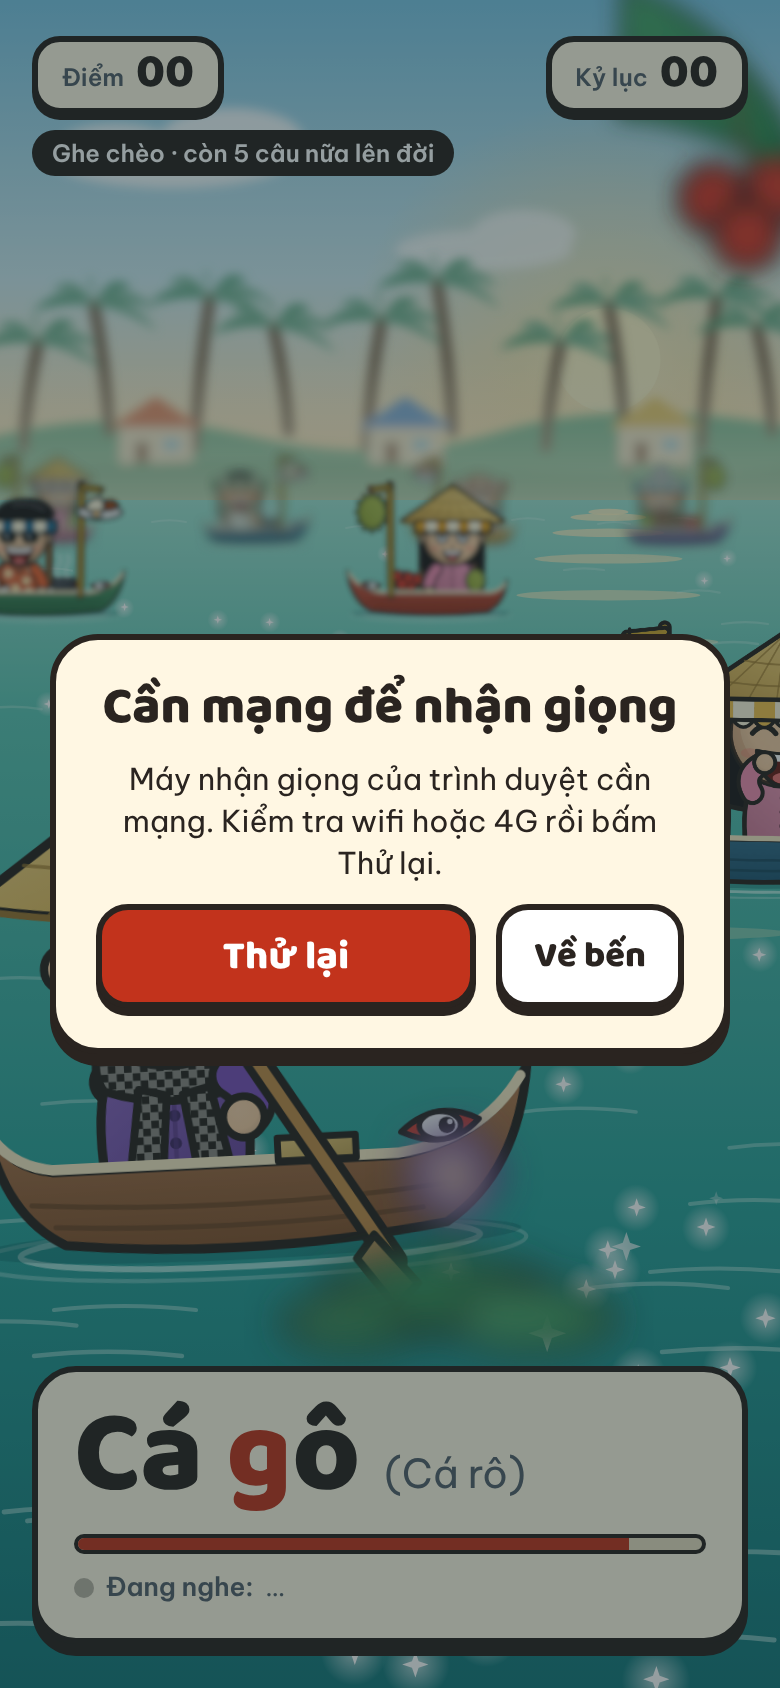
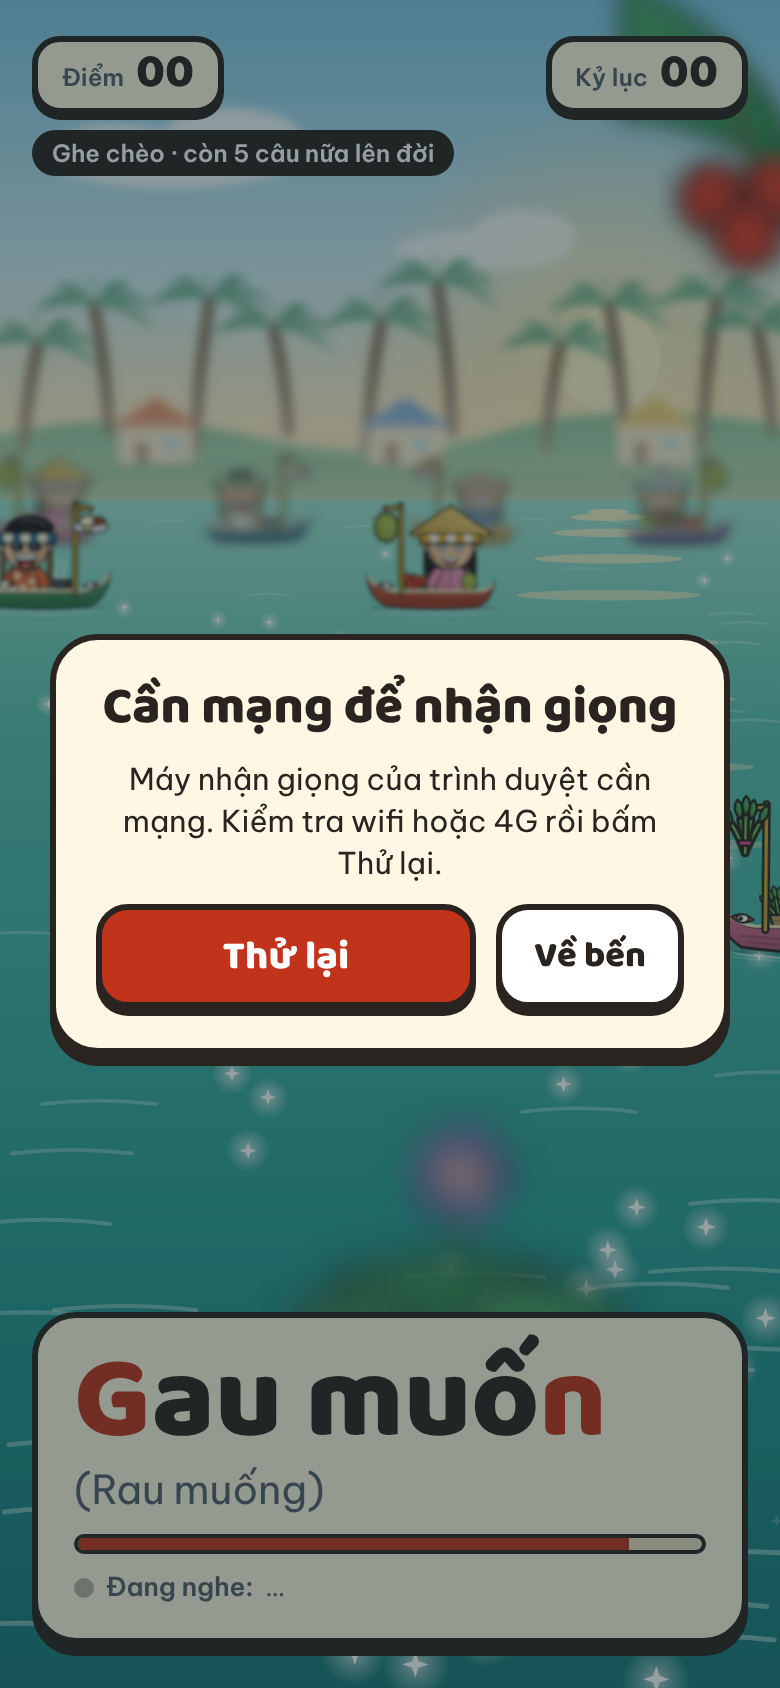
Nới chấm cho máy nghe iPhone: chấm điểm từng chữ, bỏ qua lỗi dấu thanh lẻ; khớp dự phòng cả phiên
Claude-Session: https://claude.ai/code/session_017jqyeXqtiS2mnfjbSpzNZe

diff --git a/src/speech/matcher.js b/src/speech/matcher.js
@@ -1,10 +1,17 @@
-// Bộ chấm câu đọc (B4). Hàm thuần, không đụng DOM: chạy được cả trên trình duyệt lẫn node (dev/tests).
+// Bộ chấm câu đọc. Hàm thuần, không đụng DOM: chạy được cả trên trình duyệt lẫn node (dev/tests).
 //
-// Một câu khớp khi trong transcript có một dãy chữ liên tiếp, đúng thứ tự, khớp toàn bộ câu. Ở mỗi vị trí, chữ nghe
-// được phải trùng CHÍNH XÁC (NFC, chữ thường, bỏ dấu câu) chữ chính tả HOẶC chữ phiên âm cùng vị trí.
-// Không dung sai: đọc lộn thứ tự, thiếu chữ, sai dấu thanh, sai chữ → không qua (Khôi chốt 2026-11-17).
+// Một câu khớp khi trong transcript có một dãy chữ liên tiếp, đúng thứ tự, đủ số chữ của câu. Mỗi vị trí được chấm điểm
+// so với chữ chính tả HOẶC chữ phiên âm cùng vị trí (lấy điểm cao hơn):
+//   1    trùng chính xác;
+//   0.75 chỉ sai dấu thanh (máy nghe iPhone hay nhầm dấu);
+//   0.5  sai 1 ký tự nhưng cùng phụ âm đầu (chữ dài ≥ 3 ký tự);
+//   0    sai chữ / sai phụ âm đầu.
+// Qua khi KHÔNG vị trí nào 0 và điểm trung bình ≥ PASS_AVG. Đọc lộn thứ tự, thiếu chữ, sai chữ → không qua.
+// (2026-11-17: Khôi thử iPhone thấy máy nghe sai nhiều, nới từ "trùng chính xác" sang chấm điểm như trên.)
 // Chữ thừa trước/sau dãy khớp thì vẫn được.
-// dialect = có ít nhất một vị trí (chính tả ≠ phiên âm) mà chữ nghe được là dạng phiên âm.
+// dialect = có ít nhất một vị trí (chính tả ≠ phiên âm) mà chữ nghe được trùng CHÍNH XÁC dạng phiên âm.
+
+export const PASS_AVG = 0.8;
 
 const DIGITS = { 0: 'không', 1: 'một', 2: 'hai', 3: 'ba', 4: 'bốn', 5: 'năm', 6: 'sáu', 7: 'bảy', 8: 'tám', 9: 'chín', 10: 'mười' };
 
@@ -19,11 +26,32 @@ export function normalizeWords(text) {
 }
 export const normalizeText = (text) => normalizeWords(text).join(' ');
 
-// Chữ nghe được phải trùng CHÍNH XÁC chữ đích (sau chuẩn hoá): sai dấu thanh, sai chữ là không khớp.
-// 0 = khớp, Infinity = không khớp (giữ dạng số để so "gần dạng nào hơn" khi chấm giọng).
-export function wordDistance(heard, target) {
-  return heard === target ? 0 : Infinity;
+const TONES = /[\u0300\u0301\u0303\u0309\u0323]/g;
+export const detone = (w) => w.normalize('NFD').replace(TONES, '').normalize('NFC');
+const ONSET = /^(ngh|ng|nh|ch|tr|th|ph|kh|gh|gi|qu|[bcdđghklmnprstvxw])/;
+const onset = (w) => (w.match(ONSET) || [''])[0];
+function lev1(a, b) { // khoảng cách sửa có ≤ 1 không
+  if (a === b) return true;
+  if (Math.abs(a.length - b.length) > 1) return false;
+  let i = 0, j = 0, d = 0;
+  while (i < a.length && j < b.length) {
+    if (a[i] === b[j]) { i++; j++; continue; }
+    if (++d > 1) return false;
+    if (a.length > b.length) i++; else if (b.length > a.length) j++; else { i++; j++; }
+  }
+  return d + (a.length - i) + (b.length - j) <= 1;
 }
+
+// Điểm của một chữ nghe được so với chữ đích (xem bảng ở đầu file).
+export function wordScore(heard, target) {
+  if (heard === target) return 1;
+  const h = detone(heard), t = detone(target);
+  if (h === t) return 0.75;
+  if (t.length >= 3 && onset(h) === onset(t) && lev1(h, t)) return 0.5;
+  return 0;
+}
+// giữ tên cũ cho chỗ khác dùng: 0 = trùng, Infinity = không tính được
+export function wordDistance(heard, target) { return heard === target ? 0 : Infinity; }
 
 // Chuẩn bị câu: hai dạng chữ, cùng số chữ thì so theo vị trí; lệch số chữ thì xét từng dạng riêng.
 export function preparePhrase(phrase) {
@@ -34,15 +62,19 @@ export function preparePhrase(phrase) {
 }
 
 function matchAt(words, start, form) {
-  let dialect = false;
-  for (let i = 0; i < form.ct.length; i++) {
+  let dialect = false, sum = 0;
+  const n = form.ct.length;
+  for (let i = 0; i < n; i++) {
     const h = words[start + i];
     if (h === undefined) return null;
-    const dc = wordDistance(h, form.ct[i]), dp = wordDistance(h, form.pa[i]);
-    if (dc === Infinity && dp === Infinity) return null;
-    if (form.ct[i] !== form.pa[i] && dp < dc) dialect = true;
+    const sc = wordScore(h, form.ct[i]), sp = wordScore(h, form.pa[i]);
+    const best = Math.max(sc, sp);
+    if (best === 0) return null;
+    sum += best;
+    if (form.ct[i] !== form.pa[i] && h === form.pa[i]) dialect = true;
   }
-  return { dialect };
+  if (sum / n < PASS_AVG) return null;
+  return { dialect, score: sum / n };
 }
 
 // words: mảng chữ đã chuẩn hoá. Trả { matched, dialect, start } — ưu tiên lần khớp có giọng miền Tây.
@@ -71,7 +103,7 @@ export function matchProgress(words, phrase) {
       let k = 0;
       while (k < n && s + k < words.length) {
         const h = words[s + k];
-        if (wordDistance(h, form.ct[k]) === Infinity && wordDistance(h, form.pa[k]) === Infinity) break;
+        if (Math.max(wordScore(h, form.ct[k]), wordScore(h, form.pa[k])) === 0) break;
         k++;
       }
       if (k > bestK) bestK = k;
@@ -101,6 +133,19 @@ export class TranscriptCursor {
 
   // phiên nhận giọng kết thúc (sẽ khởi động lại): giữ chữ của câu hiện tại, danh sách mới bắt đầu từ 0
   newSession() { this.carry = this.words(); this.results = []; this.ri = 0; this.skip = 0; }
+
+  // Dự phòng cho iPhone (viết lại kết quả tạm thời làm con trỏ lệch): mọi chữ của phiên hiện tại, kèm vị trí con trỏ.
+  // Chỉ nên nhận một lần khớp có KẾT THÚC sau vị trí con trỏ (tức có chữ nói sau khi câu bắt đầu).
+  allWords() {
+    const out = [];
+    let mark = 0;
+    for (let i = 0; i < this.results.length; i++) {
+      if (i < this.ri) mark += this.results[i].words.length;
+      else if (i === this.ri) mark += Math.min(this.skip, this.results[i].words.length);
+      out.push(...this.results[i].words);
+    }
+    return { words: this.carry.length ? this.carry.concat(out.slice(mark)) : out, mark: this.carry.length ? 0 : mark };
+  }
 
   words() {
     const out = this.carry.slice();

diff --git a/src/speech/voice.js b/src/speech/voice.js
@@ -6,9 +6,10 @@ export class VoiceControl {
   constructor({ game, speech, panel }) {
     this.game = game; this.speech = speech; this.panel = panel;
     this.cursor = new TranscriptCursor();
-    this.roundId = 0; this.phrase = null; this.done = false;
+    this.roundId = 0; this.phrase = null; this.done = false; this.prevPhraseId = null;
 
     game.addEventListener('round', (e) => {
+      this.prevPhraseId = this.phrase ? this.phrase.id : null;
       this.roundId = e.detail.id; this.phrase = e.detail.phrase; this.done = false;
       this.cursor.mark();
       panel.setHeard(''); panel.setProgress(0);
@@ -26,7 +27,13 @@ export class VoiceControl {
     if (!this.phrase || this.done || g.state !== 'playing' || g.paused || !g.round || g.round.id !== this.roundId) return;
     const words = this.cursor.words();
     this.panel.setHeard(words.slice(-7).join(' '));
-    const m = matchPhrase(words, this.phrase);
+    let m = matchPhrase(words, this.phrase);
+    // iPhone hay viết lại kết quả tạm thời làm con trỏ lệch: thử khớp trên cả phiên, miễn không phải câu vừa đọc ở lượt trước
+    if (!m.matched && this.phrase.id !== this.prevPhraseId) {
+      const all = this.cursor.allWords();
+      const m2 = matchPhrase(all.words, this.phrase);
+      if (m2.matched && m2.start + m2.length > all.mark) m = m2;
+    }
     if (m.matched) {
       this.done = g.onPhraseMatched(this.roundId, { dialect: m.dialect });
       return;

diff --git a/src/ui/panel.js b/src/ui/panel.js
@@ -72,7 +72,7 @@ export class Panel {
     this.el.classList.remove('is-passed'); this.el.classList.add('is-crash');
     this.bar.hidden = true; this.chips.hidden = true; this.title.hidden = false;
     this.setPhrase(p, Math.min(34, fontSizeFor(p.phienAm)));
-    this.heard.hidden = true;
+    this.heard.hidden = false; // giữ dòng máy nghe được để người chơi biết sai chỗ nào
   }
 
   // số chữ đầu câu đã đọc đúng

diff --git a/dev/docs/spec.md b/dev/docs/spec.md
@@ -63,3 +63,4 @@ Link chơi: https://lethienkhoi.github.io/cho-noi-mien-tay/ · Code: github.com/
 7. B7: thử trên iPhone và Android thật, tối ưu.
 
 - 2026-11-17 (Khôi thử iPhone, nhận giọng chậm): trả thời gian về 1,6s + 0,55s/chữ, giảm tới 60%; ân hạn 0,4s; thêm "chờ người đang đọc": đã đọc đúng ≥ nửa câu và vừa có chữ đúng mới trong 1s thì ghe hàng dừng sát mũi chờ thêm tối đa 1,2s.
+- 2026-11-17 (Khôi: máy nghe sai nhiều, thua liên tục): chấm theo điểm từng chữ — trùng 1; chỉ sai dấu thanh 0,75; sai 1 ký tự cùng phụ âm đầu 0,5; sai chữ 0. Qua khi không chữ nào 0 và trung bình ≥ 0,8. Lộn thứ tự, thiếu chữ, sai chữ vẫn không qua. Thưởng "Chuẩn miền Tây" chỉ khi trùng chính xác chữ phiên âm. Thêm khớp dự phòng trên cả phiên nhận giọng (iPhone viết lại kết quả tạm thời). Khi đụng, giữ dòng "Đang nghe" để thấy máy nghe được gì.
